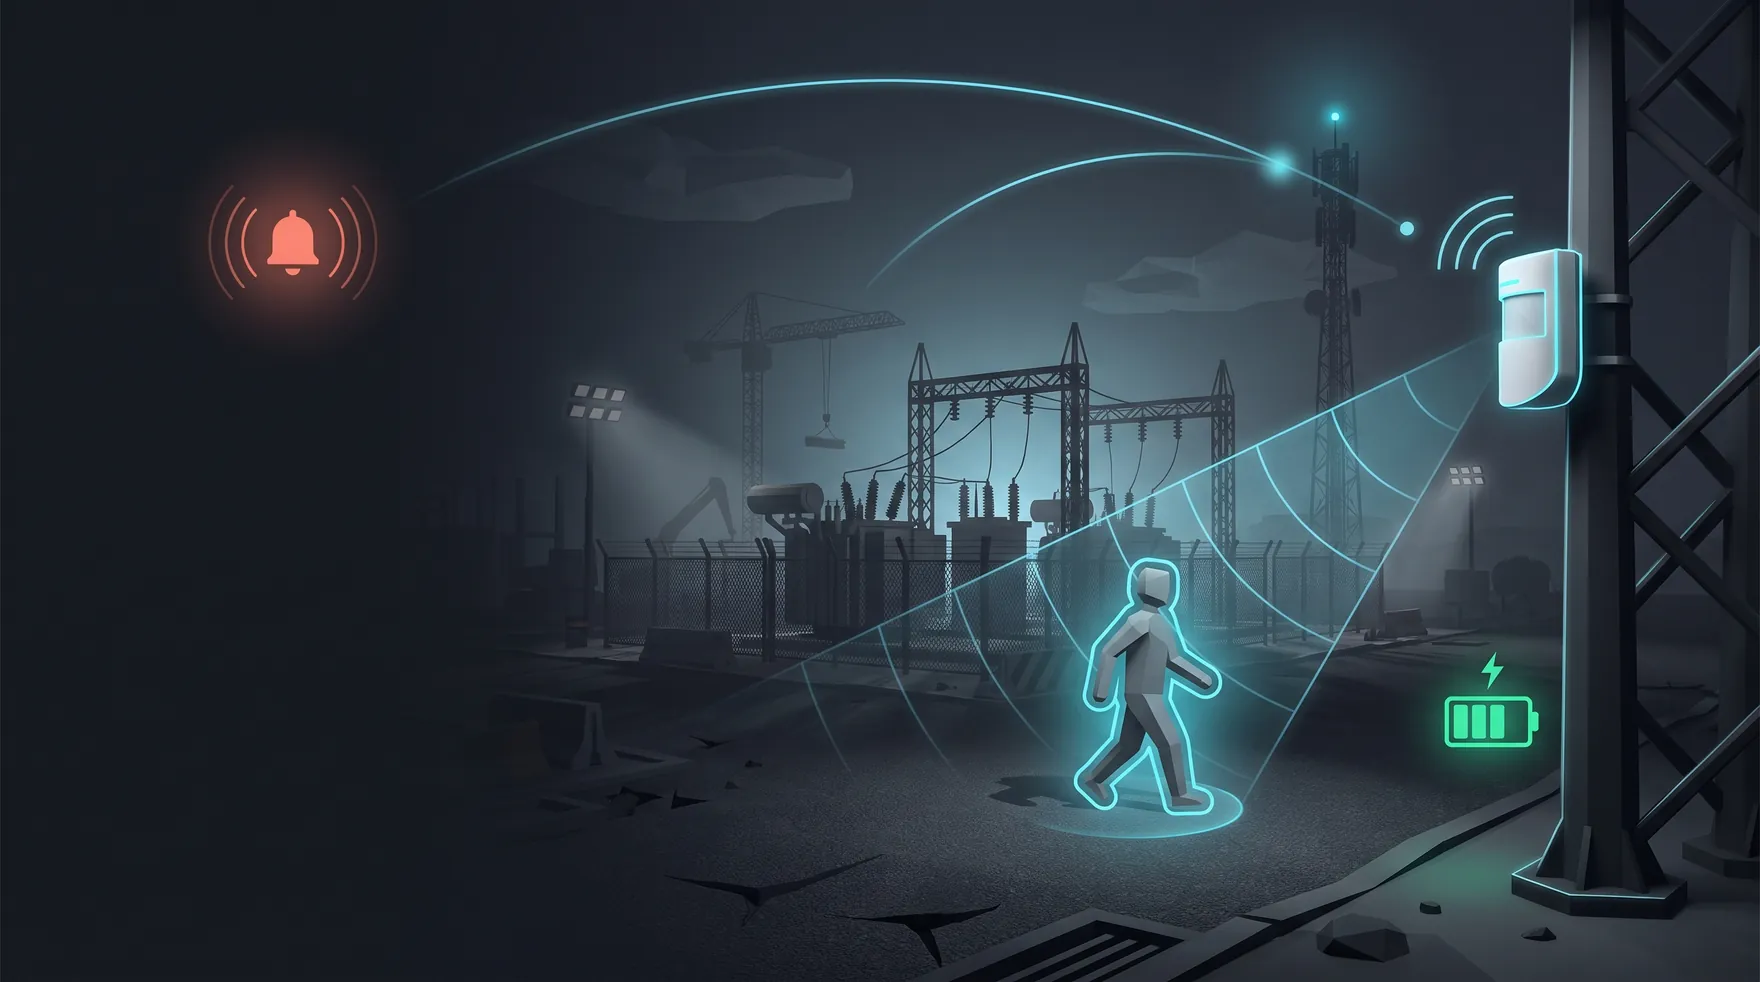
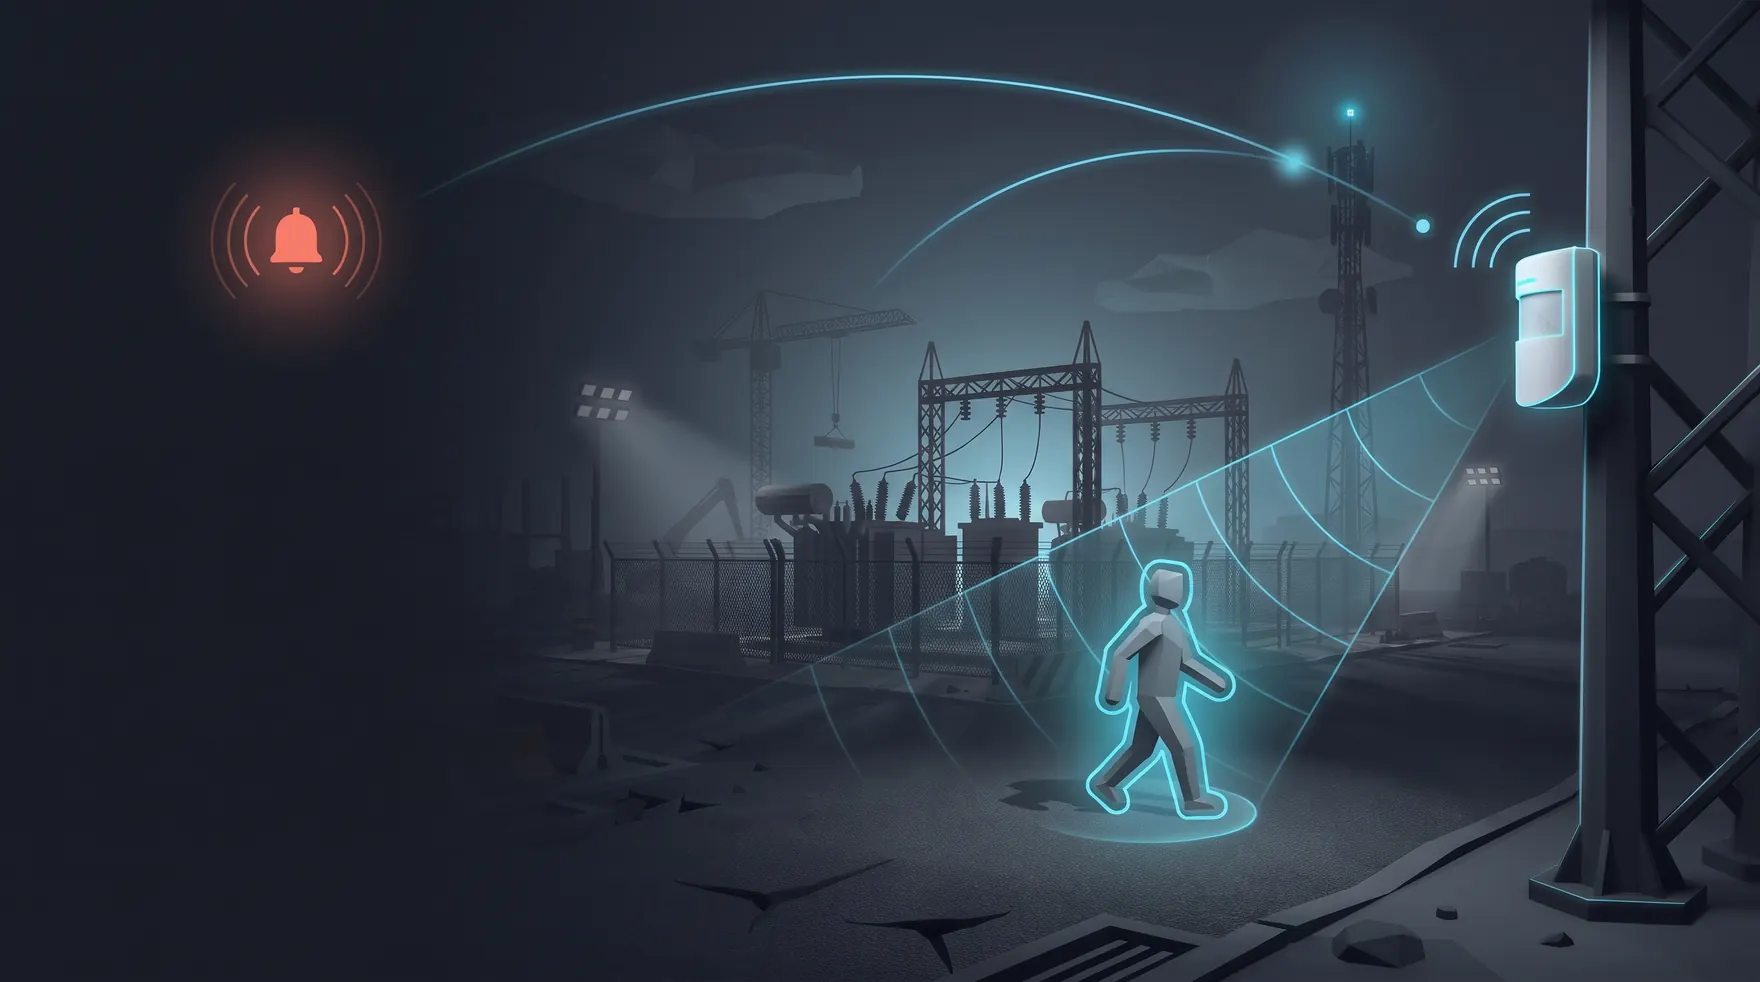
fix(web): Preis 99 EUR, Objektschutz ohne Akkubetrieb und Echtzeit-Versprechen
Einmalpreis von 79 auf 99 EUR auf Startseite, Vorbestellen und Ferienhaus.
Objektschutz: Akkubetrieb, autark, kein Strom, keine Verkabelung und Alarm in
Echtzeit entfernt, stattdessen USB-Stromversorgung und realistische Meldezeit.
Batterie-Symbol aus dem Hero-Bild entfernt, Ansprache auf Sie.

diff --git a/objektschutz/index.html b/objektschutz/index.html
@@ -28,10 +28,10 @@
 <link rel="apple-touch-icon" href="/apple-touch-icon.png" />
 <link rel="manifest" href="/site.webmanifest" />
 <meta name="theme-color" content="#0f1419" />
-<title>movero-sensor Objektschutz — Bewegungsalarm ohne WLAN, im Akkubetrieb</title>
-<meta name="description" content="movero-sensor schützt abgelegene Objekte und kritische Infrastruktur: Bewegungsalarm per Push, ganz ohne WLAN über das Mobilnetz (NB-IoT), autark im Akkubetrieb. Kein Router, keine Verkabelung." />
-<meta property="og:title" content="movero-sensor Objektschutz — Bewegungsalarm ohne WLAN, im Akkubetrieb" />
-<meta property="og:description" content="Autarker Bewegungsmelder für Objektschutz & kritische Infrastruktur. Funkt über NB-IoT ohne WLAN, läuft im Akkubetrieb weiter. Alarm in Echtzeit aufs Handy." />
+<title>movero-sensor Objektschutz — Bewegungsalarm ohne WLAN</title>
+<meta name="description" content="movero-sensor schützt abgelegene Objekte und kritische Infrastruktur: Bewegungsalarm per Push, ganz ohne WLAN über das Mobilnetz (NB-IoT). Kein Router, keine IT-Einrichtung vor Ort." />
+<meta property="og:title" content="movero-sensor Objektschutz — Bewegungsalarm ohne WLAN" />
+<meta property="og:description" content="Bewegungsmelder für Objektschutz & kritische Infrastruktur. Funkt über NB-IoT ohne WLAN und meldet Bewegung per Push aufs Handy." />
 <meta property="og:type" content="website" />
 <meta property="og:image" content="https://movero-sensor.de/hero-objektschutz.jpg" />
 <style>
@@ -154,22 +154,21 @@
   <div class="bg">
     <picture>
       <source srcset="/hero-objektschutz.webp" type="image/webp" />
-      <img src="/hero-objektschutz.jpg" alt="movero-sensor am Mast überwacht ein Umspannwerk bei Nacht: der Bewegungsscan erfasst einen Eindringling und löst Alarm aus, gefunkt über NB-IoT zum Mobilfunkmast, betrieben per Akku." />
+      <img src="/hero-objektschutz.jpg" alt="movero-sensor am Mast überwacht ein Umspannwerk bei Nacht: der Bewegungsscan erfasst einen Eindringling und löst Alarm aus, gefunkt über NB-IoT zum Mobilfunkmast." />
     </picture>
   </div>
   <div class="scrim"></div>
   <div class="wrap inner">
     <div class="col">
       <span class="eyebrow">Objektschutz &amp; kritische Infrastruktur</span>
-      <h1>Bewegungsalarm, wo <span class="g">kein WLAN</span> und kein Strom ist.</h1>
-      <p class="lead">movero-sensor überwacht abgelegene Objekte autark: Er meldet jede Bewegung sofort per Push,
-        funkt direkt über das Mobilnetz (NB-IoT) – ganz ohne WLAN – und läuft im Akkubetrieb weiter.
-        Kein Router, keine Verkabelung, kein Techniker vor Ort.</p>
+      <h1>Bewegungsalarm, wo <span class="g">kein WLAN</span> ist.</h1>
+      <p class="lead">movero-sensor überwacht abgelegene Objekte: Er meldet Bewegung per Push und funkt direkt
+        über das Mobilnetz (NB-IoT) – ganz ohne WLAN. Kein Router, keine IT-Einrichtung, kein Techniker vor Ort.</p>
       <div class="cta">
         <a class="btn pri" href="https://app.movero-sensor.de">App öffnen</a>
         <a class="btn" href="#so">So funktioniert's</a>
       </div>
-      <p class="note">Kein WLAN nötig · Akkubetrieb · Alarm in Echtzeit · Server in Deutschland</p>
+      <p class="note">Kein WLAN nötig · SIM inklusive · Alarm per Push · Server in Deutschland</p>
     </div>
   </div>
 </section>
@@ -177,8 +176,8 @@
 <div class="wrap">
   <div class="trust">
     <span>📡 <b>Kein</b> WLAN nötig</span>
-    <span>🔋 Läuft im <b>Akkubetrieb</b></span>
-    <span>🔔 Alarm in <b>Echtzeit</b></span>
+    <span>📶 <b>SIM</b> inklusive</span>
+    <span>🔔 Alarm per <b>Push</b></span>
     <span>🇩🇪 Server in Deutschland</span>
   </div>
 </div>
@@ -187,22 +186,22 @@
   <div class="wrap">
     <div class="shead">
       <span class="eyebrow">Warum movero-sensor</span>
-      <h2>Schutz genau dort, wo klassische Technik aufgibt</h2>
-      <p>Baustellen, leerstehende Gebäude, Technikräume, abgelegene Anlagen – Orte ohne Internet und ohne
-         verlässlichen Strom. Genau dafür ist movero-sensor gebaut.</p>
+      <h2>Schutz genau dort, wo es kein Internet gibt</h2>
+      <p>Baustellen, leerstehende Gebäude, Technikräume, abgelegene Anlagen – Orte ohne Internetanschluss.
+         Genau dafür ist movero-sensor gebaut.</p>
     </div>
     <div class="cards">
       <div class="c"><div class="ic">📡</div><h3>NB-IoT statt WLAN</h3>
         <p>Der Sensor funkt direkt über das Mobilfunknetz. Kein Router, kein Gäste-WLAN, keine IT-Einrichtung
-           vor Ort – er ist überall sofort online.</p></div>
-      <div class="c"><div class="ic">🔋</div><h3>Autark im Akkubetrieb</h3>
-        <p>Läuft auch ohne Steckdose und übersteht Stromausfälle. Ideal für Orte ganz ohne Infrastruktur –
-           einfach aufstellen und überwachen.</p></div>
+           vor Ort – Mobilfunkempfang genügt.</p></div>
+      <div class="c"><div class="ic">🔌</div><h3>Einfache USB-Stromversorgung</h3>
+        <p>Der Sensor braucht nur einen Stromanschluss per USB. Fällt der Strom aus oder wird der Stecker
+           gezogen, zeigt die App ihn nach einiger Zeit als offline an.</p></div>
       <div class="c"><div class="ic">🛡</div><h3>Wächter-Modus</h3>
-        <p>Scharfschalten – und jede Bewegung im überwachten Zeitfenster löst sofort einen Alarm aus.
-           Optional nur nachts oder außerhalb der Betriebszeiten.</p></div>
+        <p>Scharfschalten – und Bewegung im überwachten Zeitfenster löst einen Alarm aus, meist innerhalb von
+           rund einer halben Stunde. Optional nur nachts oder außerhalb der Betriebszeiten.</p></div>
       <div class="c"><div class="ic">⚡</div><h3>In Minuten einsatzbereit</h3>
-        <p>Kein Kabel, kein Setup vor Ort. Aufstellen, in der App scharfschalten, fertig – und ebenso schnell
+        <p>Kein WLAN-Setup vor Ort. Anschließen, in der App scharfschalten, fertig – und ebenso schnell
            an den nächsten Standort versetzt.</p></div>
     </div>
   </div>
@@ -213,8 +212,7 @@
     <div class="shead">
       <span class="eyebrow">Einsatzbereiche</span>
       <h2>Wo movero-sensor schützt</h2>
-      <p>Überall dort, wo es kein WLAN und oft keinen Strom gibt – aber trotzdem jemand wissen muss,
-         wenn sich etwas bewegt.</p>
+      <p>Überall dort, wo es kein WLAN gibt – aber trotzdem jemand wissen muss, wenn sich etwas bewegt.</p>
     </div>
     <div class="uses">
       <div class="use"><span class="e">🏗</span><span>Baustellen &amp; Lagerplätze</span></div>
@@ -234,13 +232,13 @@
     <div class="shead">
       <span class="eyebrow">In 4 Schritten scharf</span>
       <h2>So funktioniert der Objektschutz</h2>
-      <p>Keine Verkabelung, kein WLAN-Setup, kein Techniker. Aufstellen, scharfschalten, geschützt.</p>
+      <p>Kein WLAN-Setup, kein Techniker. Anschließen, scharfschalten, fertig.</p>
     </div>
     <div class="steps">
-      <div class="step"><h3>Aufstellen</h3><p>Sensor am zu schützenden Ort platzieren – ganz ohne WLAN oder Verkabelung.</p></div>
+      <div class="step"><h3>Anschließen</h3><p>Sensor am zu schützenden Ort anbringen und per USB mit Strom versorgen.</p></div>
       <div class="step"><h3>Scharfschalten</h3><p>In der App den Wächter-Modus aktivieren, optional mit Zeitfenster.</p></div>
-      <div class="step"><h3>Überwachen</h3><p>NB-IoT hält den Sensor über das Mobilnetz dauerhaft online – im Akkubetrieb.</p></div>
-      <div class="step"><h3>Alarmiert</h3><p>Bei Bewegung sofort Push aufs Handy – wo immer du gerade bist.</p></div>
+      <div class="step"><h3>Überwachen</h3><p>Der Sensor funkt über das Mobilnetz und überträgt Bewegungen gebündelt.</p></div>
+      <div class="step"><h3>Alarmiert</h3><p>Bei Bewegung kommt eine Push-Nachricht aufs Handy, meist innerhalb von rund einer halben Stunde.</p></div>
     </div>
   </div>
 </section>
@@ -248,8 +246,8 @@
 <section class="sec">
   <div class="wrap">
     <div class="cta-band">
-      <h2>Objekte schützen, ohne Infrastruktur</h2>
-      <p>Ein Sensor, der dort funktioniert, wo sonst nichts erreichbar ist – autark, mobil und sofort einsatzbereit.</p>
+      <h2>Objekte schützen, ganz ohne WLAN</h2>
+      <p>Ein Sensor, der auch dort funktioniert, wo es kein Internet gibt – mobil und schnell einsatzbereit.</p>
       <a class="btn pri" href="https://app.movero-sensor.de">Jetzt App öffnen</a>
       <p class="disc">movero-sensor ist eine Hilfe zur Bewegungserkennung und ersetzt keine zertifizierte Alarmanlage (z.&nbsp;B. VdS) oder einen Wachdienst.</p>
     </div>

diff --git a/vorbestellen/index.html b/vorbestellen/index.html
@@ -28,8 +28,8 @@
 <link rel="apple-touch-icon" href="/apple-touch-icon.png" />
 <link rel="manifest" href="/site.webmanifest" />
 <meta name="theme-color" content="#fbf8f3" />
-<title>movero-sensor vorbestellen – 79 € + 8,99 €/Monat</title>
-<meta name="description" content="movero-sensor unverbindlich vorbestellen: diskreter Bewegungssensor für Angehörige älterer Menschen. 79 € einmalig, 8,99 € im Monat inkl. Mobilfunk. Ohne Kamera, ohne WLAN." />
+<title>movero-sensor vorbestellen – 99 € + 8,99 €/Monat</title>
+<meta name="description" content="movero-sensor unverbindlich vorbestellen: diskreter Bewegungssensor für Angehörige älterer Menschen. 99 € einmalig, 8,99 € im Monat inkl. Mobilfunk. Ohne Kamera, ohne WLAN." />
 <style>
   :root { --bg:#fbf8f3; --bg2:#f4eee5; --card:#ffffff; --line:#e8e0d4; --ink:#2d2a26;
           --muted:#5e5850; --accent:#2f855a; --accent-d:#276749; --accent-soft:#e6f4ec;
@@ -235,7 +235,7 @@
       <p class="lead">Der kleine Sensor bemerkt die gewohnte Alltagsbewegung Ihrer Angehörigen. Bleibt sie
         ungewöhnlich lange aus, meldet sich die App bei Ihnen – ohne Kamera, ohne Mikrofon, ohne WLAN.</p>
       <div class="price">
-        <div class="big">79 €<small> einmalig</small></div>
+        <div class="big">99 €<small> einmalig</small></div>
         <div class="plus">+ <b>8,99 € im Monat</b> für Mobilfunk, App &amp; Benachrichtigungen</div>
         <ul>
           <li>SIM-Karte eingebaut – kein Internet in der Wohnung nötig</li>

diff --git a/ferienhaus/index.html b/ferienhaus/index.html
@@ -285,10 +285,10 @@
       <p class="lead">movero-sensor meldet Ihnen, wenn sich im leerstehenden Haus etwas bewegt – auch hunderte Kilometer
         entfernt. Ohne Kamera, ohne Mikrofon und ohne WLAN vor Ort. Funktioniert europaweit.</p>
       <div class="cta">
-        <a class="btn pri" href="#vorbestellen">Jetzt vorbestellen · 79 €</a>
+        <a class="btn pri" href="#vorbestellen">Jetzt vorbestellen · 99 €</a>
         <a class="btn" href="#so">So funktioniert's</a>
       </div>
-      <p class="note">79 € + 8,99 €/Monat je Sensor inkl. Mobilfunk · Unverbindlich und kostenlos vorbestellen</p>
+      <p class="note">99 € + 8,99 €/Monat je Sensor inkl. Mobilfunk · Unverbindlich und kostenlos vorbestellen</p>
     </div>
     <figure class="pic">
       <picture>
@@ -516,7 +516,7 @@
         <span class="eyebrow">Unverbindlich vorbestellen</span>
         <h2>Sichern Sie sich Ihren Sensor fürs Ferienhaus</h2>
       </div>
-      <div class="price">79 € <small>einmalig je Sensor</small></div>
+      <div class="price">99 € <small>einmalig je Sensor</small></div>
       <div class="plus">+ <b>8,99 € im Monat</b> für Mobilfunk, App &amp; Benachrichtigungen</div>
       <p class="fine">Preise inkl. MwSt. Die Vorbestellung ist unverbindlich und kostenlos: Wir melden uns per E-Mail,
         sobald Ihr Sensor lieferbar ist. Erst dann entscheiden Sie, ob Sie kaufen.</p>

diff --git a/index.html b/index.html
@@ -314,14 +314,14 @@
         bemerkt die gewohnte Alltagsbewegung. Bleibt sie ungewöhnlich lange aus, meldet sich die App bei Ihnen.
         Diskret, respektvoll und ohne jemanden zu bevormunden.</p>
       <div class="cta">
-        <a class="btn pri" href="/vorbestellen/">Jetzt vorbestellen · 79 €</a>
+        <a class="btn pri" href="/vorbestellen/">Jetzt vorbestellen · 99 €</a>
         <a class="btn play" href="https://play.google.com/store/apps/details?id=de.yaico.movero">
           <svg viewBox="0 0 24 24" fill="currentColor" aria-hidden="true"><path d="M22.018 13.298l-3.919 2.218-3.515-3.493 3.543-3.521 3.891 2.202a1.49 1.49 0 0 1 0 2.594zM1.337.924a1.486 1.486 0 0 0-.112.568v21.017c0 .217.045.419.124.6l11.155-11.087L1.337.924zm12.207 10.065l3.258-3.238L2.99.31a1.494 1.494 0 0 0-.887-.294l11.44 10.973zm0 2.067L2.084 24.001a1.501 1.501 0 0 0 .906-.293l13.824-7.482-3.27-3.17z"/></svg>
           <span class="t"><small>Jetzt laden bei</small>Google Play</span>
         </a>
         <a class="btn" href="https://app.movero-sensor.de">Web-App öffnen</a>
       </div>
-      <p class="note">79 € + 8,99 €/Monat inkl. Mobilfunk · Keine Kamera · Kein Mikrofon · Kein Internet erforderlich</p>
+      <p class="note">99 € + 8,99 €/Monat inkl. Mobilfunk · Keine Kamera · Kein Mikrofon · Kein Internet erforderlich</p>
     </div>
     <figure class="pic">
       <picture>
